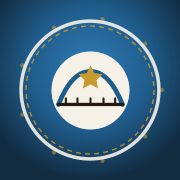
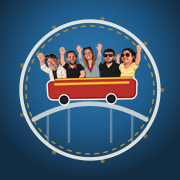
Pose la photo du wagon sur l'écran de lancement et sur l'icône
La mécanique attendait depuis la session 8, mais aucune source n'était versionnée :
l'écran de lancement retombait sur les passagers dessinés.

Le détourage est refait sur deux critères. Le fond est le seul élément bleuté — son
écart bleu moins rouge va de 33 à 87 quand aucun pixel des passagers ne dépasse 14 —
là où l'ancienne distance de couleur aurait percé les vêtements noirs avant de
nettoyer le décor. La voie et les piliers, peints en blanc translucide, ne se
distinguent par aucune couleur : ce sont les seules choses opaques qui touchent
encore le bord de l'image. Les deux passes propagent depuis le cadre au lieu de
balayer, donc une couleur de décor prisonnière du sujet ne perce pas de trou.

Le wagon est redressé de 26° puisque animateMotion l'incline déjà selon la pente, et
enfoncé de 6 unités : plus long que celui qu'il remplace, il décollait du rail par
les deux bouts sur une crête.

L'original vit dans design/ et non dans public/, recopié en entier dans dist/ puis
préchargé par le service worker. icon-fallback.png, référencé nulle part, est
supprimé. Malgré la photo, le précache revient à son niveau d'avant.

Changed region(s): [[0.1667, 0.2222, 0.8333, 0.8056]]

diff --git a/index.html b/index.html
@@ -155,7 +155,13 @@
                 Wagon photo : une seule image détourée, posée sur la trajectoire.
                 Elle remplace tout le wagon dessiné dès que public/wagon.png existe.
               -->
-              <image id="wagonphoto" x="-116" y="-136" width="232" height="156" visibility="hidden"
+              <!--
+                Le wagon photographié est bien plus long que celui qui est dessiné,
+                et une caisse rigide posée sur une crête décolle forcément du rail
+                par les deux bouts. On l'enfonce de quelques unités : il enjambe la
+                voie, qui passe dessous, au lieu de la survoler.
+              -->
+              <image id="wagonphoto" x="-116" y="-130" width="232" height="156" visibility="hidden"
                      preserveAspectRatio="xMidYMax meet"/>
 
               <!-- Photo réelle : cinq hublots ronds, remplis dès que les têtes existent. -->

diff --git a/SESSIONS.md b/SESSIONS.md
@@ -9,6 +9,50 @@ git le fait déjà. On y écrit ce que git ne dit pas — pourquoi, et où on s'
 
 ---
 
+## Session 16 — 11/08/2026 · La photo du wagon, enfin posée
+
+**La photo n'avait jamais été intégrée** : le mécanisme était prêt depuis la session 8,
+mais aucun fichier source n'était dans le dépôt, donc l'écran de lancement retombait
+sur les passagers dessinés. Le fichier était pourtant sur le disque de la session, dans
+`~/.claude/uploads/` — je ne l'y avais pas cherché.
+
+**Le détourage a dû être refait.** L'ancienne règle — distance de couleur au fond,
+balayée sur toute l'image — ne pouvait pas marcher ici : un sweat noir n'est qu'à 89 du
+bleu nuit, soit plus près que le pilier à effacer. Elle aurait percé les vêtements avant
+de nettoyer le décor. Deux critères l'ont remplacée :
+
+- **Le fond** est le seul élément bleuté. Son écart bleu − rouge va de 33 à 87 ; aucun
+  pixel des passagers ne dépasse 14, peau, cheveux et noirs étant neutres ou chauds.
+- **La voie et les piliers** sont peints en blanc translucide : ils prennent la teinte
+  de ce qu'ils recouvrent, et aucun seuil ne les distingue du sweat gris d'une
+  passagère. Ce qui les trahit est topologique — ce sont les seules choses opaques qui
+  touchent encore le bord de l'image.
+
+Les deux passes propagent depuis le cadre au lieu de balayer : une couleur de décor
+prisonnière du sujet n'est jamais atteinte, donc ne perce pas de trou. C'est ce qui
+laisse quelques échardes bleues entre une épaule et la caisse — invisibles, elles ont
+la couleur du ciel de l'écran de lancement. Une dernière passe retire les miettes que
+la propagation ne pouvait pas atteindre : les étoiles, et les traverses sombres restées
+à flotter dans un rail devenu transparent.
+
+**Redressée de 26°.** `animateMotion` incline déjà le wagon selon la pente ; une photo
+en pente aurait cumulé les deux. Et comme le wagon photographié est bien plus long que
+celui qu'il remplace, il décollait du rail par les deux bouts sur une crête : enfoncé de
+6 unités, il enjambe la voie au lieu de la survoler. Vérifié à cinq instants du trajet.
+
+**L'icône reprend le wagon** plutôt qu'un selfie rogné en rond, qui ne gardait qu'un
+visage ou deux à 192 px.
+
+**Constaté**
+
+- `public/` est recopié tel quel dans `dist/` puis préchargé **en entier** par le service
+  worker. L'original de 1,5 Mo y aurait été téléchargé sur chaque téléphone sans jamais
+  être affiché : il vit maintenant dans `design/`, hors de la publication.
+- `icon-fallback.png` était généré mais référencé nulle part — 93 Ko préchargés pour
+  rien. Supprimé.
+- Malgré l'ajout de la photo, le précache est revenu à son niveau d'avant (1 199 Ko) :
+  la palette indexée a plus que compensé.
+
 ## Session 15 — 11/08/2026 · Le défilement animé se faisait écraser
 
 **Le retour en haut ne marchait toujours pas sur l'appareil**, alors qu'il passait au
@@ -144,7 +188,7 @@ rejouables sur `npm run preview`. Les deux passent à zéro défaut.
 
 **Reste ouvert** — tout est bloqué sur un élément extérieur :
 
-- [ ] `public/wagon-source.png` à déposer, puis `node scripts/cut-wagon.mjs --rails`.
+- [x] Photo du wagon — faite en session 16, la source était dans `~/.claude/uploads/`.
 - [ ] Comparer `europa_park.curve` à `CURVE` : demande plusieurs jours de collecte.
 - [ ] Confirmer si sept VirtualLine sont réservables simultanément : demande une source.
 - [ ] Vérifier durées de tour et fiches d'attraction sur place.

diff --git a/DOCUMENTATION.md b/DOCUMENTATION.md
@@ -185,9 +185,13 @@ npm run preview  # sert dist/ pour tester le service worker
 
 node scripts/check-api.mjs        # croise le référentiel avec l'API réelle
 node scripts/audit-ergonomie.mjs  # contraste, cibles, noms accessibles, focus
-node scripts/make-icons.mjs       # icônes de la PWA
-node scripts/cut-wagon.mjs        # détoure le wagon de l'écran de lancement
-node scripts/cut-heads.mjs        # découpe les visages du groupe
+node scripts/cut-wagon.mjs --rails --rotation=-26   # détoure le wagon
+node scripts/make-icons.mjs                        # icônes de la PWA, d'après le wagon
+node scripts/cut-heads.mjs                         # découpe les visages du groupe
 ```
+
+L'ordre compte : `make-icons` reprend le wagon détouré, donc `cut-wagon` passe avant.
+L'original du wagon vit dans `design/`, jamais dans `public/` — ce dossier est recopié
+tel quel dans `dist/` puis préchargé en entier par le service worker.
 
 Le déploiement est branché sur GitHub : tout push sur `main` déclenche un build Vercel.
